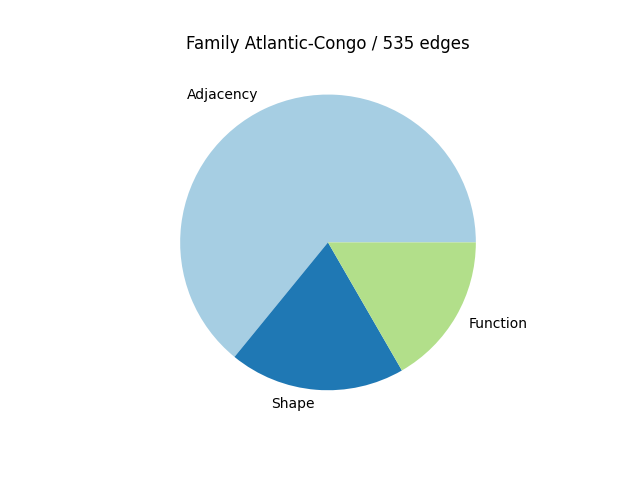
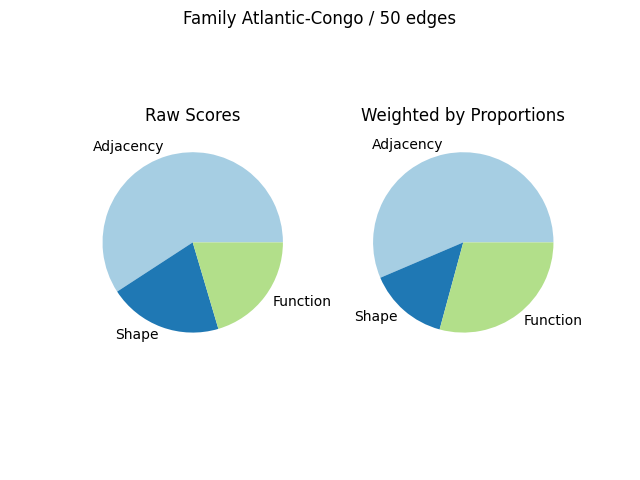
update scores

Changed region(s): [[0.125, 0.1875, 0.9062, 0.875], [0.2812, 0.0, 0.7188, 0.125]]

diff --git a/clicsbpcommands/piecharts.py b/clicsbpcommands/piecharts.py
@@ -30,6 +30,11 @@ def run(args):
             delimiter="\t",
             dicts=True)
     rels = {}
+    props = {
+            "Adjacency": 0,
+            "Shape": 0,
+            "Function": 0
+            }
     for row in relations:
         # change choice() to row["Relation"] !
         if row["NodeA"] != row["NodeB"]:
@@ -38,8 +43,15 @@ def run(args):
                     int(row["Shape"]),
                     int(row["Function"])
                     )
+            props["Adjacency"] += int(row["Adjacency"])
+            props["Shape"] += int(row["Shape"])
+            props["Function"] += int(row["Function"])
             rels[row["NodeB"], row["NodeA"]] = rels[row["NodeA"], row["NodeB"]]
 
+    
+    props["Adjacency"] = props["Adjacency"] / sum(props.values())
+    props["Shape"] = props["Shape"] / sum(props.values())
+    props["Function"] = props["Function"] / sum(props.values())
 
     data = defaultdict(lambda : defaultdict(list))
     for row in colexifications:
@@ -47,7 +59,7 @@ def run(args):
                 (
                             row["CONCEPT"], 
                             row["COMMUNITY"],
-                            row["LINKS"].split(";")
+                            row["COLEXIFICATIONS"].split(";")
                             )
                         ]
     colors = [
@@ -55,6 +67,7 @@ def run(args):
         "#1f78b4",
         "#b2df8a"]
     pies = {}
+    graphs = {}
     for fam in data:
         plt.clf()
         args.log.info("loading {0}".format(fam))
@@ -81,9 +94,19 @@ def run(args):
                 this_pie[2] += rels[nodeA, nodeB][2]
             except:
                 print(fam, nodeA, nodeB)
-        pies[fam] = this_pie
-        plt.pie(this_pie, colors=colors, labels=["Adjacency", "Shape", "Function"])
-        plt.title("Family {0} / {1} edges".format(fam, len(G.edges)))
+        prop_pie = [
+                this_pie[0] * props["Adjacency"],
+                this_pie[1] * props["Shape"],
+                this_pie[2] * props["Function"]
+                ]
+
+        pies[fam] = (this_pie, prop_pie, len(G), len(G.edges))
+        fig, (ax1, ax2) = plt.subplots(1, 2, sharey=True)
+        ax1.pie(this_pie, colors=colors, labels=["Adjacency", "Shape", "Function"])
+        ax1.set_title("Raw Scores")
+        ax2.pie(prop_pie, colors=colors, labels=["Adjacency", "Shape", "Function"])
+        ax2.set_title("Weighted by Proportions")
+        fig.suptitle("Family {0} / {1} edges".format(fam, len(G.edges)))
         plt.savefig(
                 clicsbp.dir.joinpath(
                     "output", 
@@ -94,15 +117,18 @@ def run(args):
     with open(clicsbp.dir.joinpath(
         "output",
         "pie-chart-data.tsv"), "w") as f:
-        for fam, pie in pies.items():
-            f.write("{0}\t{1}\t{2}\t{3}\t{4:.2f}\t{5:.2f}\t{6:.2f}\n".format(
+        for fam, (pie, pieprop, leng, lengedges) in pies.items():
+            f.write("{0}\t{1}\t{2}\t{3}\t{4}\t{5}\t{6:.2f}\t{7:.2f}\t{8:.2f}\n".format(
                 fam,
+                str(leng),
+                str(lengedges),
                 pie[0],
                 pie[1],
                 pie[2],
-                pie[0]/len(rels),
-                pie[1]/len(rels),
-                pie[2]/len(rels)))
+                pieprop[0],
+                pieprop[1],
+                pieprop[2])
+                )
 
 
 
